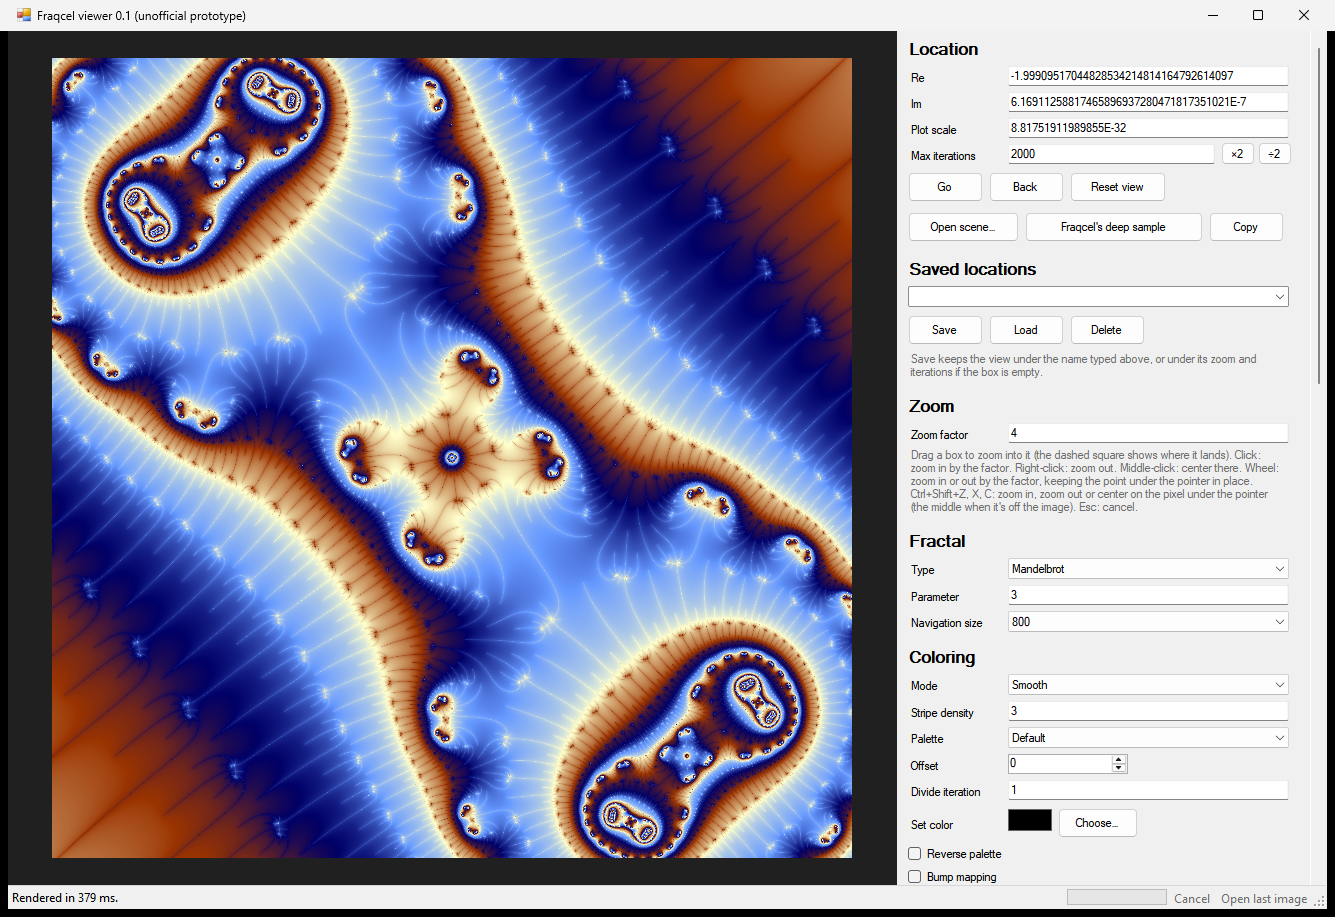
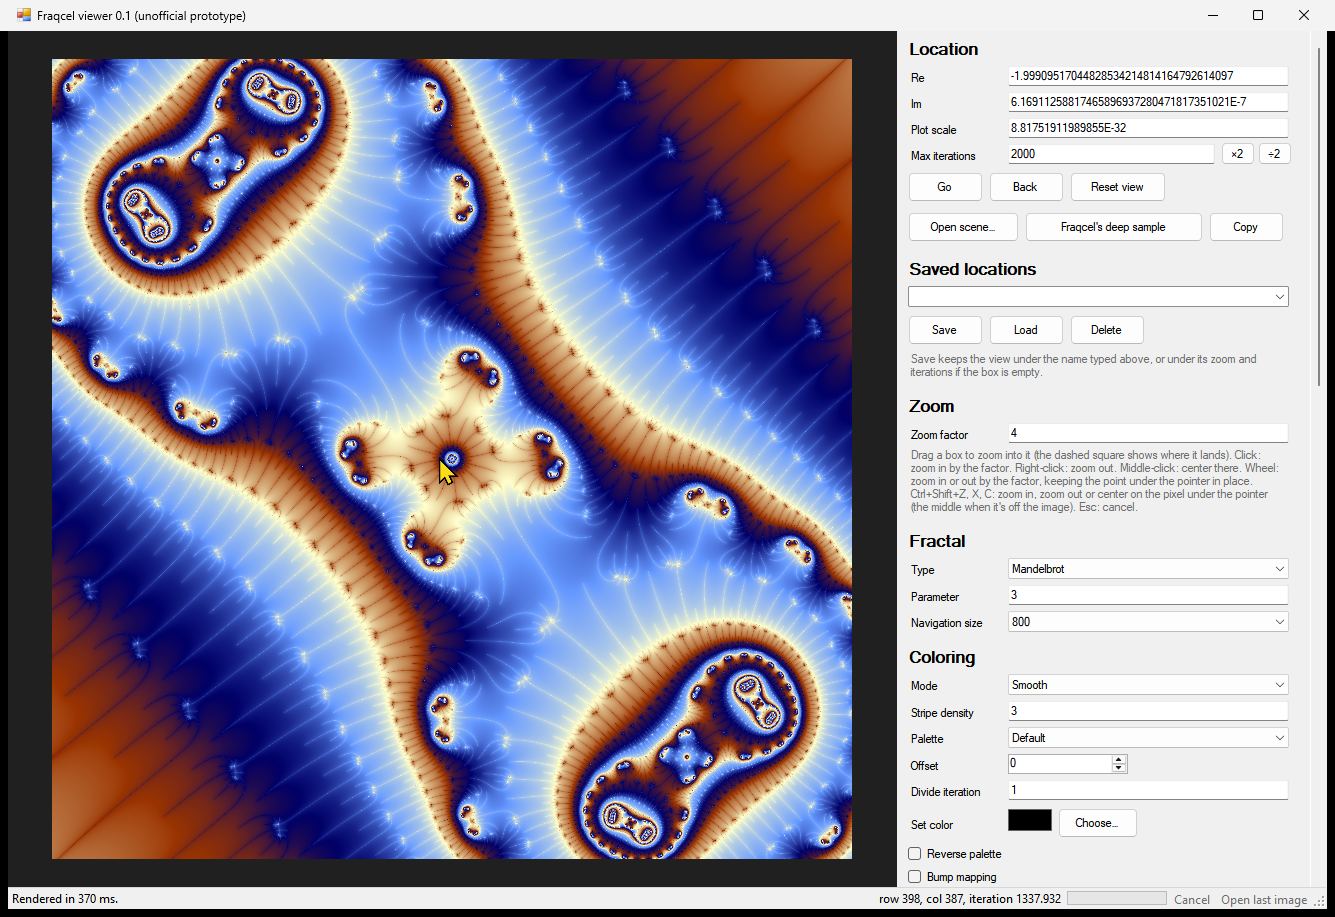
README screenshot: show the footer's pixel value
The first screenshot is now taken with the pointer over the image, so
the footer shows that pixel's iteration value. Same view as before
(Fraqcel's deep sample), from the v0.1 build.

diff --git a/README.md b/README.md
@@ -4,7 +4,7 @@ An unofficial Windows viewer for [Fraqcel](https://fraqcel.weebly.com/), the dee
 
 It is not made or endorsed by Fraqcel's author. Fraqcel itself, with its user guide, is at [fraqcel.weebly.com](https://fraqcel.weebly.com/).
 
-![The viewer on Fraqcel's deep sample location](docs/viewer-deep-sample.png)
+![The viewer on Fraqcel's deep sample location, with the iteration value of the pixel under the pointer in the footer](docs/viewer-deep-sample.png)
 
 ## Getting started
 
